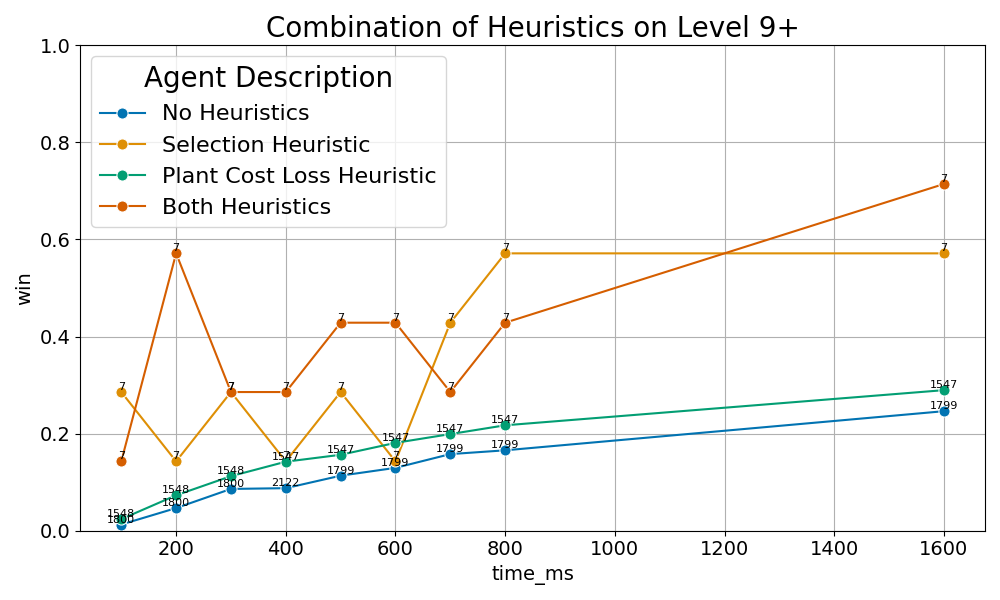
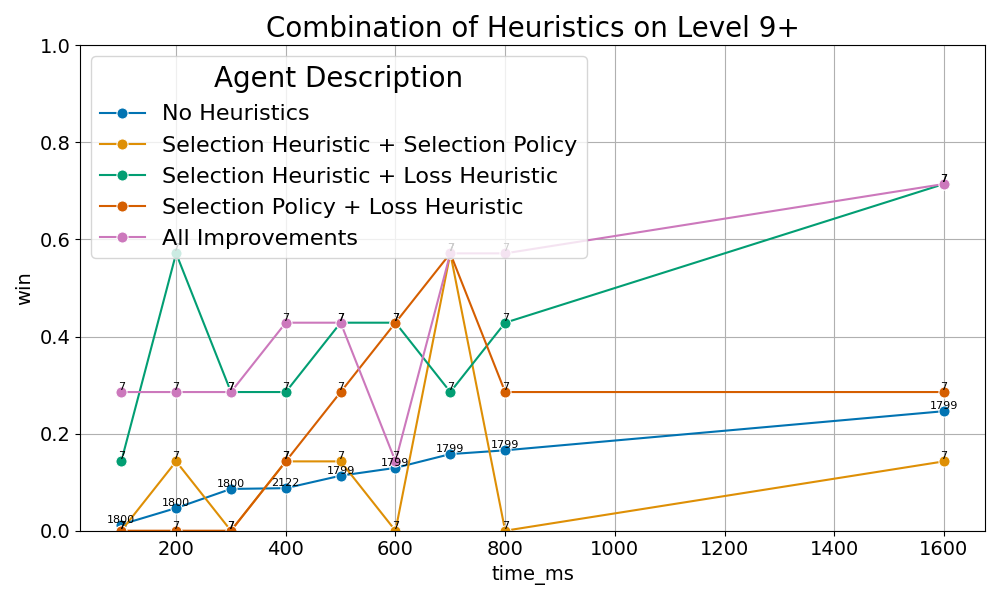
`create_graphs.py` now creates all graphs

diff --git a/game_ai/create_graphs.py b/game_ai/create_graphs.py
@@ -2,6 +2,144 @@ import pandas as pd
 from build import mcts
 from plot_utils import CSV_FILENAME, filter_and_plot_pvz_data, filter_pvz_data, plot_pvz_data
 
+
+def plot_pvz_data_section_6_3(
+    all_data: pd.DataFrame,
+    level: str,
+    rollout_mode: str,
+    file_name: str,
+    title: str,
+    legend_location: str = "upper left",
+):
+    data_combined = filter_pvz_data(
+        all_data,
+        level=[level],
+        time_ms_filter={"max": 1600},
+        ucb_filter=[0.004],
+        # heuristic_modes_filter=[mcts.NO_HEURISTIC, mcts.HEURISTIC_SELECT],
+        # selection_modes_filter=[mcts.FULL_EXPAND, mcts.SQUARE_RATIO],
+        loss_heuristics_filter=[mcts.NO_HEURISTIC, mcts.TOTAL_PLANT_COST_HEURISTIC],
+        expansion_modes_filter=[rollout_mode],
+    )
+
+    data_0 = filter_pvz_data(
+        data_combined.copy(),
+        heuristic_modes_filter=[mcts.NO_HEURISTIC],
+        selection_modes_filter=[mcts.FULL_EXPAND],
+        loss_heuristics_filter=[mcts.NO_HEURISTIC],
+    )
+    data_0["name_in_legend"] = "No Heuristics"
+
+    data_1 = filter_pvz_data(
+        data_combined.copy(),
+        heuristic_modes_filter=[mcts.HEURISTIC_SELECT],
+        selection_modes_filter=[mcts.SQUARE_RATIO],
+        loss_heuristics_filter=[mcts.NO_HEURISTIC],
+    )
+    data_1["name_in_legend"] = "Selection Heuristic + Selection Policy"
+
+    data_2 = filter_pvz_data(
+        data_combined.copy(),
+        heuristic_modes_filter=[mcts.HEURISTIC_SELECT],
+        selection_modes_filter=[mcts.FULL_EXPAND],
+        loss_heuristics_filter=[mcts.TOTAL_PLANT_COST_HEURISTIC],
+    )
+    data_2["name_in_legend"] = "Selection Heuristic + Loss Heuristic"
+
+    data_3 = filter_pvz_data(
+        data_combined.copy(),
+        heuristic_modes_filter=[mcts.NO_HEURISTIC],
+        selection_modes_filter=[mcts.SQUARE_RATIO],
+        loss_heuristics_filter=[mcts.TOTAL_PLANT_COST_HEURISTIC],
+    )
+    data_3["name_in_legend"] = "Selection Policy + Loss Heuristic"
+
+    data_4 = filter_pvz_data(
+        data_combined.copy(),
+        heuristic_modes_filter=[mcts.HEURISTIC_SELECT],
+        selection_modes_filter=[mcts.SQUARE_RATIO],
+        loss_heuristics_filter=[mcts.TOTAL_PLANT_COST_HEURISTIC],
+    )
+    data_4["name_in_legend"] = "All Improvements"
+
+    data_combined = pd.concat([data_0, data_1, data_2, data_3, data_4], ignore_index=True)
+
+    plot_pvz_data(
+        data_combined,
+        title=title,
+        file_name=file_name,
+        group_graphs_by="name_in_legend",
+        legend_location=legend_location,
+        sort_legend=False,
+    )
+
+
+def plot_pvz_data_all_improvements(
+    all_data: pd.DataFrame,
+    level: str,
+    file_name: str,
+    title: str,
+    legend_location: str = "upper left",
+):
+    data_6_3_4 = filter_pvz_data(
+        all_data,
+        level=[level],
+        time_ms_filter={"max": 1600},
+        ucb_filter=[0.004],
+        # heuristic_modes_filter=[mcts.NO_HEURISTIC, mcts.HEURISTIC_SELECT],
+        # selection_modes_filter=[mcts.FULL_EXPAND, mcts.SQUARE_RATIO],
+        loss_heuristics_filter=[mcts.NO_HEURISTIC, mcts.TOTAL_PLANT_COST_HEURISTIC],
+        # expansion_modes_filter=[rollout_mode],
+    )
+
+    data_6_3_4_0 = filter_pvz_data(
+        data_6_3_4.copy(),
+        heuristic_modes_filter=[mcts.NO_HEURISTIC],
+        selection_modes_filter=[mcts.FULL_EXPAND],
+        loss_heuristics_filter=[mcts.NO_HEURISTIC],
+        expansion_modes_filter=[mcts.NORMAL_MCTS],
+    )
+    data_6_3_4_0["name_in_legend"] = "Basic Agent"
+
+    data_6_3_4_1 = filter_pvz_data(
+        data_6_3_4.copy(),
+        heuristic_modes_filter=[mcts.HEURISTIC_SELECT],
+        selection_modes_filter=[mcts.SQUARE_RATIO],
+        loss_heuristics_filter=[mcts.TOTAL_PLANT_COST_HEURISTIC],
+        expansion_modes_filter=[mcts.NORMAL_MCTS],
+    )
+    data_6_3_4_1["name_in_legend"] = "Full Heuristic Agent"
+
+    data_6_3_4_2 = filter_pvz_data(
+        data_6_3_4.copy(),
+        heuristic_modes_filter=[mcts.HEURISTIC_SELECT],
+        selection_modes_filter=[mcts.SQUARE_RATIO],
+        loss_heuristics_filter=[mcts.TOTAL_PLANT_COST_HEURISTIC],
+        expansion_modes_filter=[mcts.MAX_NODE],
+    )
+    data_6_3_4_2["name_in_legend"] = "Parallel Max + Full Heuristic Agent"
+
+    data_6_3_4_3 = filter_pvz_data(
+        data_6_3_4.copy(),
+        heuristic_modes_filter=[mcts.HEURISTIC_SELECT],
+        selection_modes_filter=[mcts.SQUARE_RATIO],
+        loss_heuristics_filter=[mcts.TOTAL_PLANT_COST_HEURISTIC],
+        expansion_modes_filter=[mcts.PARALLEL_TREES],
+    )
+    data_6_3_4_3["name_in_legend"] = "Parallel Trees + Full Heuristic Agent"
+
+    data_6_3_4 = pd.concat([data_6_3_4_0, data_6_3_4_1, data_6_3_4_2, data_6_3_4_3], ignore_index=True)
+
+    plot_pvz_data(
+        data_6_3_4,
+        title=title,
+        file_name=file_name,
+        group_graphs_by="name_in_legend",
+        legend_location=legend_location,
+        sort_legend=False,
+    )
+
+
 all_data = pd.read_csv(CSV_FILENAME)
 basic_data = filter_pvz_data(
     all_data,
@@ -277,53 +415,35 @@ filter_and_plot_pvz_data(
 
 
 # 6.3.1
-data_6_3_1 = filter_pvz_data(
+plot_pvz_data_section_6_3(
+    all_data, "9+", mcts.NORMAL_MCTS, "6.3.1_heuristics_combinations", "Combination of Heuristics on Level 9+"
+)
+
+# 6.3.2
+plot_pvz_data_section_6_3(
     all_data,
-    level=["9+"],
-    time_ms_filter={"max": 1600},
-    ucb_filter=[0.004],
-    heuristic_modes_filter=[mcts.NO_HEURISTIC, mcts.HEURISTIC_SELECT],
-    selection_modes_filter=[mcts.FULL_EXPAND],
-    loss_heuristics_filter=[mcts.NO_HEURISTIC, mcts.TOTAL_PLANT_COST_HEURISTIC],
-    expansion_modes_filter=[mcts.NORMAL_MCTS],
+    "9+",
+    mcts.MAX_NODE,
+    "6.3.2.1_heuristics_combinations",
+    "Parallel MAX and Heuristics on Level 9+",
+    "lower right",
 )
 
-data_6_3_1_0 = filter_pvz_data(
-    data_6_3_1.copy(),
-    heuristic_modes_filter=[mcts.NO_HEURISTIC],
-    loss_heuristics_filter=[mcts.NO_HEURISTIC],
+plot_pvz_data_section_6_3(
+    all_data, "9++", mcts.MAX_NODE, "6.3.2.2_heuristics_combinations", "Parallel MAX and Heuristics on Level 9++"
 )
-data_6_3_1_0["name_in_legend"] = "No Heuristics"
 
-data_6_3_1_1 = filter_pvz_data(
-    data_6_3_1.copy(),
-    heuristic_modes_filter=[mcts.HEURISTIC_SELECT],
-    loss_heuristics_filter=[mcts.NO_HEURISTIC],
+# 6.3.3
+plot_pvz_data_section_6_3(
+    all_data,
+    "9++",
+    mcts.PARALLEL_TREES,
+    "6.3.3_heuristics_combinations",
+    "Parallel Trees and Heuristics on Level 9++",
+    "lower right",
 )
-data_6_3_1_1["name_in_legend"] = "Selection Heuristic"
 
-data_6_3_1_2 = filter_pvz_data(
-    data_6_3_1.copy(),
-    heuristic_modes_filter=[mcts.NO_HEURISTIC],
-    loss_heuristics_filter=[mcts.TOTAL_PLANT_COST_HEURISTIC],
-)
-data_6_3_1_2["name_in_legend"] = "Plant Cost Loss Heuristic"
 
-data_6_3_1_3 = filter_pvz_data(
-    data_6_3_1.copy(),
-    heuristic_modes_filter=[mcts.HEURISTIC_SELECT],
-    loss_heuristics_filter=[mcts.TOTAL_PLANT_COST_HEURISTIC],
-)
-data_6_3_1_3["name_in_legend"] = "Both Heuristics"
-
-data_6_3_1 = pd.concat([data_6_3_1_0, data_6_3_1_1, data_6_3_1_2, data_6_3_1_3], ignore_index=True)
-
-plot_pvz_data(
-    data_6_3_1,
-    x_axis="time_ms",
-    title="Combination of Heuristics on Level 9+",
-    file_name="6.3.1_heuristics_combinations",
-    group_graphs_by="name_in_legend",
-    legend_location="upper left",
-    sort_legend=False,
-)
+# 6.3.4
+plot_pvz_data_all_improvements(all_data, "9+", "6.3.4.1_all_improvements", "Comparing All Improvements on Level 9+")
+plot_pvz_data_all_improvements(all_data, "9++", "6.3.4.2_all_improvements", "Comparing All Improvements on Level 9++")
